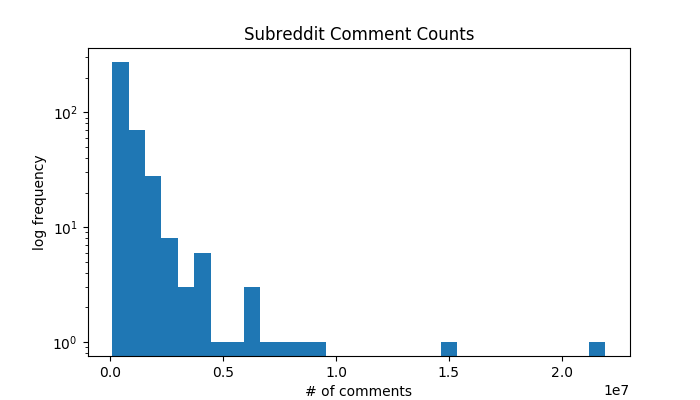
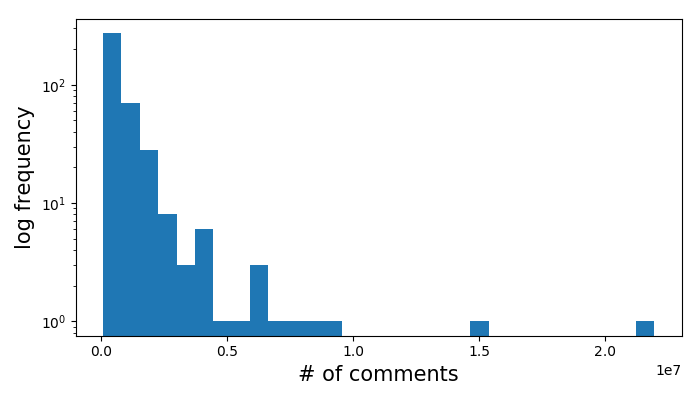
my stuff

diff --git a/code/clustering.py b/code/clustering.py
@@ -15,6 +15,9 @@ from sklearn.neighbors import NearestNeighbors
 from sklearn.cluster import KMeans, AgglomerativeClustering
 from sklearn.decomposition import PCA
 from sklearn.metrics.pairwise import cosine_similarity, euclidean_distances
+from sklearn.metrics import adjusted_rand_score, adjusted_mutual_info_score, \
+    silhouette_score, silhouette_samples
+import matplotlib.cm as cm
 from sklearn.manifold import TSNE
 from scipy.spatial.distance import cosine
 from scipy.stats import mode
@@ -27,7 +30,7 @@ from sklearn.preprocessing import Normalizer
 import random
 import codecs
 
-def tsne_viz(df, vocab, colors=None, output_filename=None):
+def tsne_viz(df, vocab, rep, colors=None, output_filename=None):
     """  
     Modified from Chris Potts's implementation at 
     https://github.com/cgpotts/cs224u/blob/master/vsm.py
@@ -42,9 +45,15 @@ def tsne_viz(df, vocab, colors=None, output_filename=None):
     # Plot values:
     xvals = tsnemat[: , 0]
     yvals = tsnemat[: , 1]
+    colormap = plt.cm.nipy_spectral
+    plt.rcParams['axes.color_cycle'] = [colormap(i) for i in np.linspace(0, 1,len(set(colors)))]
     # Plotting:
-    plt.scatter(xvals, yvals, c=colors)
-    plt.title('2d plot of subreddits using t-SNE, n = ' + str(len(set(colors))))
+    for i in set(colors): 
+        x = [p for (j,p) in enumerate(xvals) if colors[j]==i]
+        y = [p for (j,p) in enumerate(yvals) if colors[j]==i]
+        plt.scatter(x, y, label=str(i), alpha=0.8, s=6)
+    plt.legend(loc='center left', bbox_to_anchor=(1.04,0.5), ncol=2)
+    plt.title(rep.title() + '-based Clusters, n = ' + str(len(set(colors))))
     # Output:
     if output_filename:
         plt.savefig(output_filename, bbox_inches='tight')
@@ -67,30 +76,33 @@ def cluster_plot(rep, write=False, plot=False, k=20):
         for line in inputfile: 
             srs.append(line.strip())
     X = np.load(INPUT)
+    # sort by subreddit 
+    srs = np.array(srs, dtype=object)
+    srs_sort = np.argsort(srs) 
+    srs = srs[srs_sort]
+    X= X[srs_sort]
+    # cluster 
     kmeans = AgglomerativeClustering(n_clusters=k).fit(X)
-    labels = defaultdict(set)
+    labels_dict = defaultdict(set)
     for i in range(len(kmeans.labels_)): 
         label = kmeans.labels_[i]
         sr = srs[i] 
-        labels[label].add(sr)
+        labels_dict[label].add(sr)
     if plot:
-        tsne_viz(X, srs, \
+        tsne_viz(X, srs, rep, \
                  colors=kmeans.labels_, \
                  output_filename="/dfs/scratch2/lucy3/reddit-sent/logs/" \
                  + 'tsne_' + rep + '.png')
     if write: 
         with open(CLUST, 'w') as outputfile: 
-            for label in labels: 
+            for label in labels_dict: 
                 outputfile.write(str(label) + '\t')
-                for sr in labels[label]: 
+                for sr in labels_dict[label]: 
                     outputfile.write(sr + ' ')
                 outputfile.write('\n')
-    return labels
+    return labels_dict, kmeans.labels_, X
     
 def purity(text_labels, user_labels): 
-    '''
-    RUN MULTIPLE CLUSTERING AND GET AVERAGE
-    '''
     rev_text_labels = {}
     for cluster in text_labels: 
         for sr in text_labels[cluster]:
@@ -105,60 +117,190 @@ def purity(text_labels, user_labels):
         s += counts[m]
     return s/float(len(rev_text_labels))
 
-def topic(): 
+def topic(many=False): 
     srs = []
     with open(UNI_ROWS, 'r') as inputfile: 
         for line in inputfile: 
             srs.append(line.strip())
     reddits = defaultdict(set)
+    srs = sorted(srs)
+    labels = np.zeros(len(srs))
     curr = 0
     with open(SR_LIST, 'r') as inputfile: 
         for line in inputfile: 
             if line.startswith('/r/'): 
                 sr = line.strip()[3:].lower()
                 if sr in srs: 
+                    labels[srs.index(sr)] = curr
                     reddits[curr].add(sr)
-            elif line.strip() == 'General Content' or \
-                line.strip() == 'Discussion' or \
-                line.strip() == 'Educational' or \
-                line.strip() == 'Entertainment' or \
-                line.strip() == 'Hobbies/Occupations' or \
-                line.strip() == 'Lifestyle' or \
-                line.strip() == 'Technology' or \
-                line.strip() == 'Humor' or \
-                line.strip() == 'Other':
-                    curr += 1
-    return reddits
+            elif many and not line.startswith('$') and line.strip() != '': 
+                curr += 1
+            elif not many and line.startswith('$'): 
+                curr += 1
+    return reddits, labels
 
-def baseline(): 
-    labels = defaultdict(set)
+def baseline(n=20): 
+    labels_dict = defaultdict(set)
     srs = []
     with open(UNI_ROWS, 'r') as inputfile: 
         for line in inputfile: 
             srs.append(line.strip())
+    srs = sorted(srs)
+    labels = []
     for sr in srs: 
-        labels[random.randint(0, 19)].add(sr)
-    return labels
+        cluster = random.randint(0, n-1)
+        labels_dict[cluster].add(sr)
+        labels.append(cluster)
+    return labels_dict, labels
 
-def main(): 
+def evaluation(): 
+    print "K=20"
+    text_labels_dict, text_labels, text_X = cluster_plot('text') 
+    user_labels_dict, user_labels, user_X = cluster_plot('user') 
+    print "silhouette text, user", silhouette_score(text_X, user_labels)
+    print "silhouette user, text", silhouette_score(user_X, text_labels)
+    print "rand text, user", adjusted_rand_score(text_labels, user_labels)
+    print "nmi text, user", adjusted_mutual_info_score(text_labels, user_labels)
+    topic_labels_dict, topic_labels = topic()
+    print "rand text, topic", adjusted_rand_score(text_labels, topic_labels)
+    print "nmi text, topic", adjusted_mutual_info_score(text_labels, topic_labels)
+    baseline_labels_dict, baseline_labels = baseline()
+    print "silhouette text, random", silhouette_score(text_X, baseline_labels)
+    print "silhouette user, random", silhouette_score(user_X, baseline_labels)
+    print "rand text, random", adjusted_rand_score(text_labels, baseline_labels)
+    print "nmi text, random", adjusted_mutual_info_score(text_labels, baseline_labels)
+    print "rand user, random", adjusted_rand_score(user_labels, baseline_labels)
+    print "nmi user, random", adjusted_mutual_info_score(user_labels, baseline_labels)
+    print "nmi user, topic", adjusted_mutual_info_score(user_labels, topic_labels)
+    print "K=9"
+    text_labels_dict, text_labels, text_X = cluster_plot('text', k=9) 
+    user_labels_dict, user_labels, user_X = cluster_plot('user', k=9) 
+    print "silhouette text, user", silhouette_score(text_X, user_labels)
+    print "silhouette user, text", silhouette_score(user_X, text_labels)
+    print "rand text, user", adjusted_rand_score(text_labels, user_labels)
+    print "nmi text, user", adjusted_mutual_info_score(text_labels, user_labels)
+    topic_labels_dict, topic_labels = topic()
+    print "rand text, topic", adjusted_rand_score(text_labels, topic_labels)
+    print "nmi text, topic", adjusted_mutual_info_score(text_labels, topic_labels)
+    print "silhouette text, topic", silhouette_score(text_X, topic_labels)
+    print "silhouette user, topic", silhouette_score(user_X, topic_labels)
+    baseline_labels_dict, baseline_labels = baseline(n=9)
+    print "silhouette text, random", silhouette_score(text_X, baseline_labels)
+    print "silhouette user, random", silhouette_score(user_X, baseline_labels)
+    print "rand text, random", adjusted_rand_score(text_labels, baseline_labels)
+    print "nmi text, random", adjusted_mutual_info_score(text_labels, baseline_labels)
+    print "rand user, random", adjusted_rand_score(user_labels, baseline_labels)
+    print "nmi user, random", adjusted_mutual_info_score(user_labels, baseline_labels)
+
+def choosing_k(rep): 
     '''
-    Perhaps I should use mutual information
-    rather than purity. 
+    https://stackoverflow.com/questions/37767298/another-function-useful-than-elbow-in-finding-k-clusters
     '''
-    topic_labels = topic()
-    text_labels = cluster_plot('text', plot=True, write=True) 
-    user_labels = cluster_plot('user', plot=True, write=True) 
-    #baseline_labels = baseline()
-    #print purity(text_labels, baseline_labels)
-    #print purity(text_labels, user_labels)
-    '''
-    text_labels = cluster_plot('text', k=9) 
-    user_labels = cluster_plot('user', k=9) 
-    print purity(text_labels, topic_labels)
-    print purity(topic_labels, text_labels)
-    print purity(user_labels, topic_labels)
-    print purity(topic_labels, user_labels)
-    '''
+    if rep == 'text': 
+        ROWS = UNI_ROWS
+        INPUT = UNI_INPUT
+        CLUST = UNI_CLUST
+    elif rep == 'user': 
+        ROWS = USR_ROWS
+        INPUT = USR_INPUT
+        CLUST = USR_CLUST
+    srs = []
+    with open(ROWS, 'r') as inputfile: 
+        for line in inputfile: 
+            srs.append(line.strip())
+    X = np.load(INPUT)
+    # sort by subreddit 
+    srs = np.array(srs, dtype=object)
+    srs_sort = np.argsort(srs) 
+    srs = srs[srs_sort]
+    X= X[srs_sort]
+    # cluster 
+    Ks = range(2, 100)
+    km = [AgglomerativeClustering(n_clusters=i) for i in Ks]
+    scores = [silhouette_score(X, km[i].fit(X).labels_) for i in range(len(km))]
+    plt.plot(Ks, scores)
+    plt.xlabel('k')
+    plt.ylabel('silhouette score')
+    plt.title('Choosing optimal k')
+    plt.savefig('../logs/choosing_k'+rep+'.png')
+    plt.close()
+    
+def choosing_k_plots(rep):
+    """
+    Pulled from 
+    http://scikit-learn.org/stable/auto_examples/cluster/plot_kmeans_silhouette_analysis.html
+    """
+    if rep == 'text': 
+        ROWS = UNI_ROWS
+        INPUT = UNI_INPUT
+        CLUST = UNI_CLUST
+    elif rep == 'user': 
+        ROWS = USR_ROWS
+        INPUT = USR_INPUT
+        CLUST = USR_CLUST
+    srs = []
+    with open(ROWS, 'r') as inputfile: 
+        for line in inputfile: 
+            srs.append(line.strip())
+    X = np.load(INPUT)
+    # sort by subreddit 
+    srs = np.array(srs, dtype=object)
+    srs_sort = np.argsort(srs) 
+    srs = srs[srs_sort]
+    X= X[srs_sort]
+    # cluster 
+    Ks = range(2, 100)
+    for n_clusters in Ks: 
+        clusterer = AgglomerativeClustering(n_clusters=n_clusters)
+        cluster_labels = clusterer.fit_predict(X)
+        
+        silhouette_avg = silhouette_score(X, cluster_labels)
+        print("For n_clusters =", n_clusters,
+              "The average silhouette_score is :", silhouette_avg)
+
+        # Compute the silhouette scores for each sample
+        sample_silhouette_values = silhouette_samples(X, cluster_labels)
+
+        y_lower = 10
+        ax = plt.gca()
+        for i in range(n_clusters):
+            # Aggregate the silhouette scores for samples belonging to
+            # cluster i, and sort them
+            ith_cluster_silhouette_values = \
+                sample_silhouette_values[cluster_labels == i]
+
+            ith_cluster_silhouette_values.sort()
+
+            size_cluster_i = ith_cluster_silhouette_values.shape[0]
+            y_upper = y_lower + size_cluster_i
+
+            color = cm.spectral(float(i) / n_clusters)
+            ax.fill_betweenx(np.arange(y_lower, y_upper),
+                              0, ith_cluster_silhouette_values,
+                              facecolor=color, edgecolor=color, alpha=0.7)
+
+            # Label the silhouette plots with their cluster numbers at the middle
+            ax.text(-0.05, y_lower + 0.5 * size_cluster_i, str(i))
+
+            # Compute the new y_lower for next plot
+            y_lower = y_upper + 10  # 10 for the 0 samples
+
+        ax.set_title("The silhouette plot for the various clusters.")
+        ax.set_xlabel("The silhouette coefficient values")
+        ax.set_ylabel("Cluster label")
+
+        # The vertical line for average silhouette score of all the values
+        ax.axvline(x=silhouette_avg, color="red", linestyle="--")
+
+        ax.set_yticks([])  # Clear the yaxis labels / ticks
+        ax.set_xticks([-0.1, 0, 0.2, 0.4, 0.6, 0.8, 1])
+        plt.savefig('../logs/ChoosingK/silhouette_'+str(n_clusters)+rep+'.png')
+        plt.close()
+
+def main():
+    evaluation() 
+    #choosing_k('text')
+    #choosing_k('user')
 
 if __name__ == '__main__':
     main()

diff --git a/code/subreddit_counts.py b/code/subreddit_counts.py
@@ -87,9 +87,9 @@ def get_hists():
     plt.figure(figsize=(7, 4))
     plt.hist(vals, bins=30)
     plt.yscale('log')
-    plt.ylabel('log frequency')
-    plt.xlabel('# of comments')
-    plt.title('Subreddit Comment Counts')
+    plt.ylabel('log frequency', fontsize=15)
+    plt.xlabel('# of comments', fontsize=15)
+    plt.tight_layout()
     plt.savefig(COM_HIST)
     plt.close()
     with open(TOK_COUNTS, 'r') as inputfile: 
@@ -102,9 +102,9 @@ def get_hists():
     plt.figure(figsize=(7, 4))
     plt.hist(vals, bins=30)
     plt.yscale('log')
-    plt.ylabel('log frequency')
-    plt.xlabel('# of tokens')
-    plt.title('Subreddit Token Counts')
+    plt.ylabel('log frequency', fontsize=15)
+    plt.xlabel('# of tokens', fontsize=15)
+    plt.tight_layout()
     plt.savefig(TOK_HIST)
     plt.close()
 

diff --git a/code/create_subreddit_list.py b/code/create_subreddit_list.py
@@ -70,7 +70,8 @@ def inspect_counts():
         data = json.load(inputfile)
     print reddits - set(data.keys()) # probably newer subreddits
     sorted_x = sorted(data.items(), key=operator.itemgetter(1))
-    top_sr = sorted_x[-400:]  
+    top_sr = sorted_x[-400:] 
+    print top_sr
     #with open(FOCUS, 'w') as outputfile: 
     #    for sr in top_sr: 
     #        outputfile.write(sr[0] + '\n')
